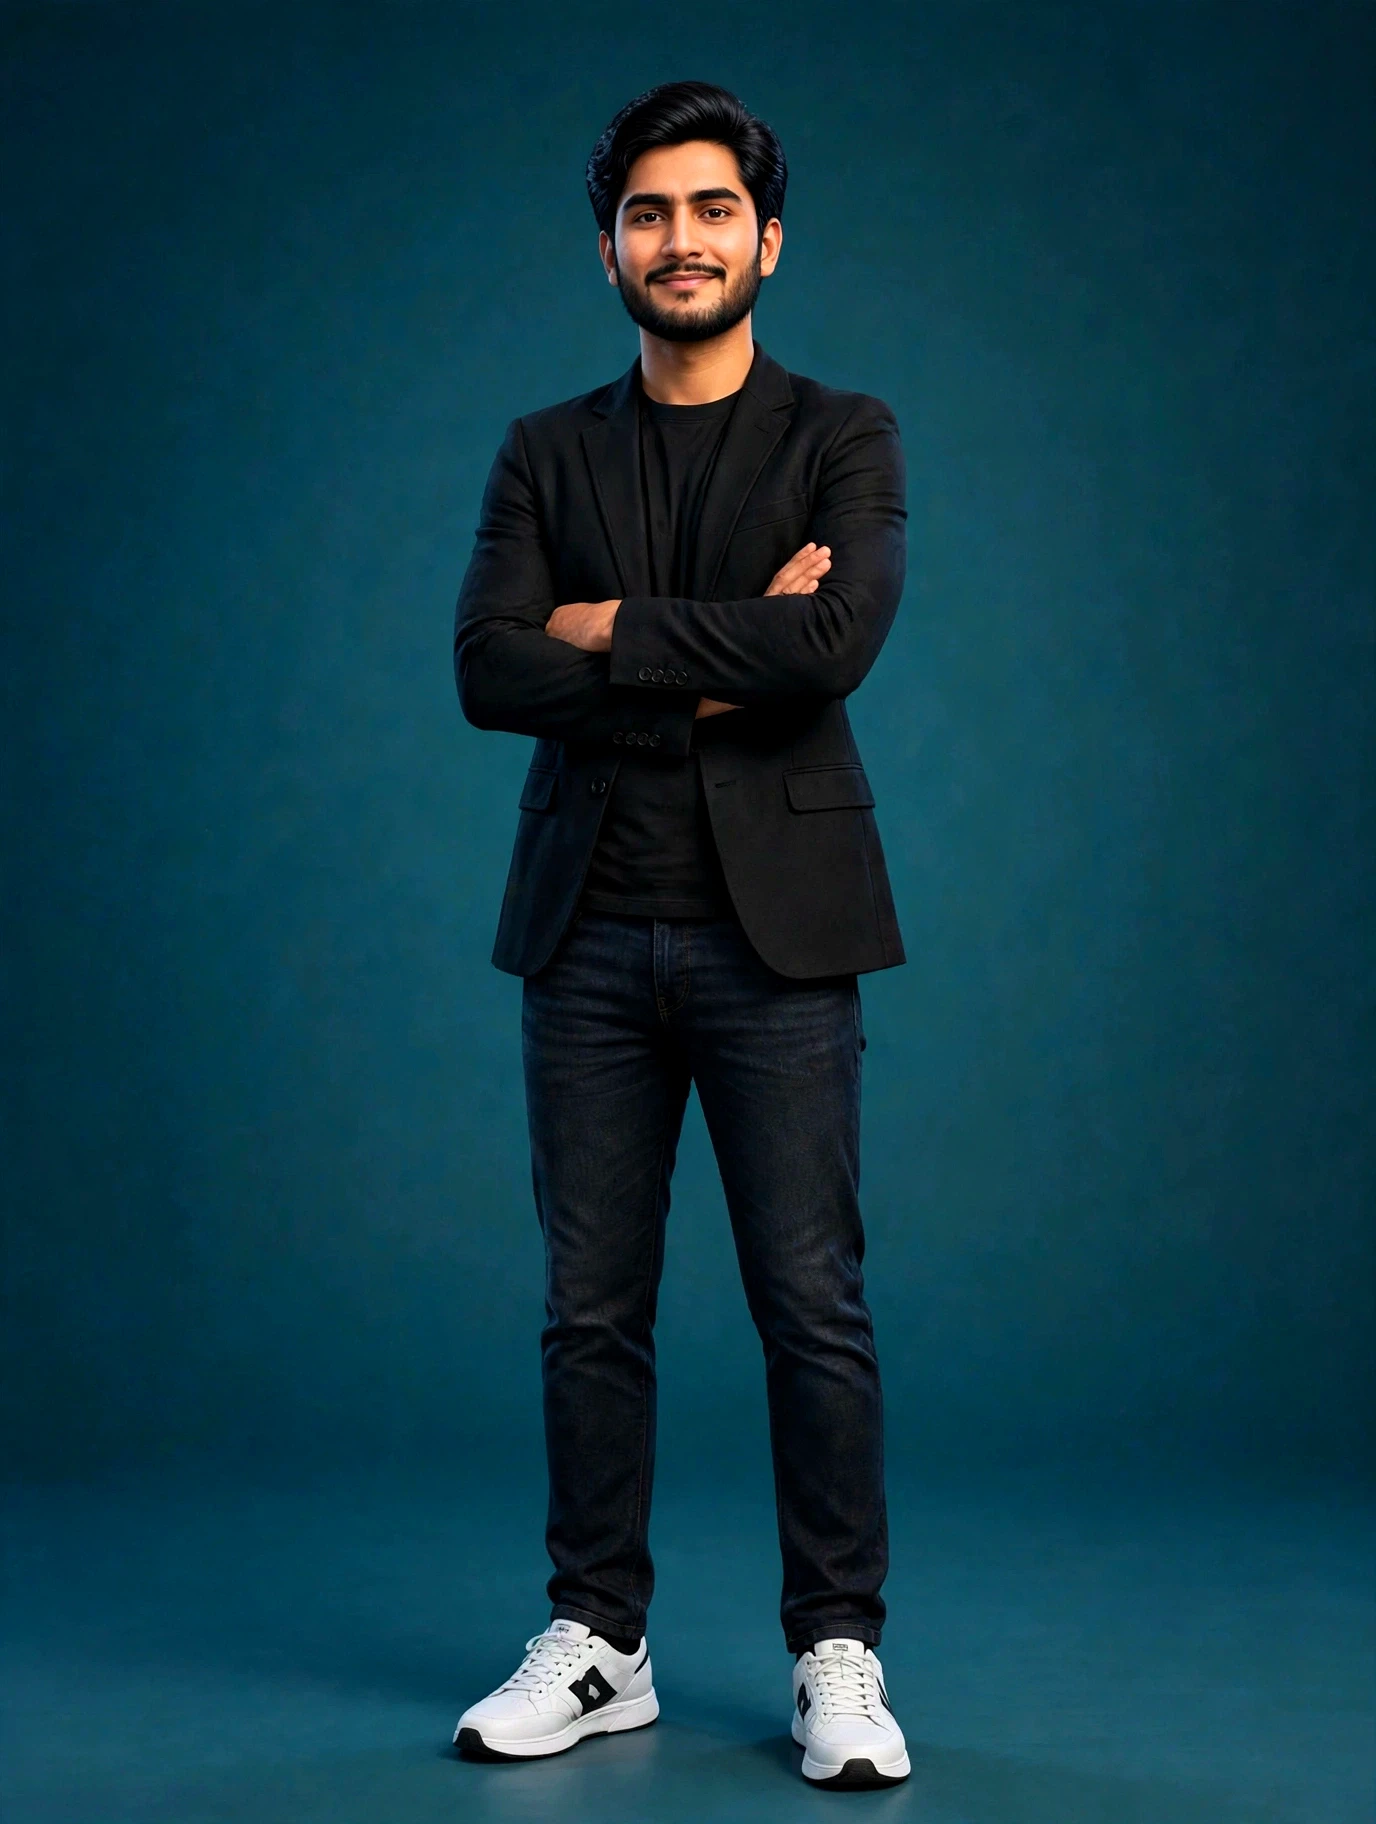
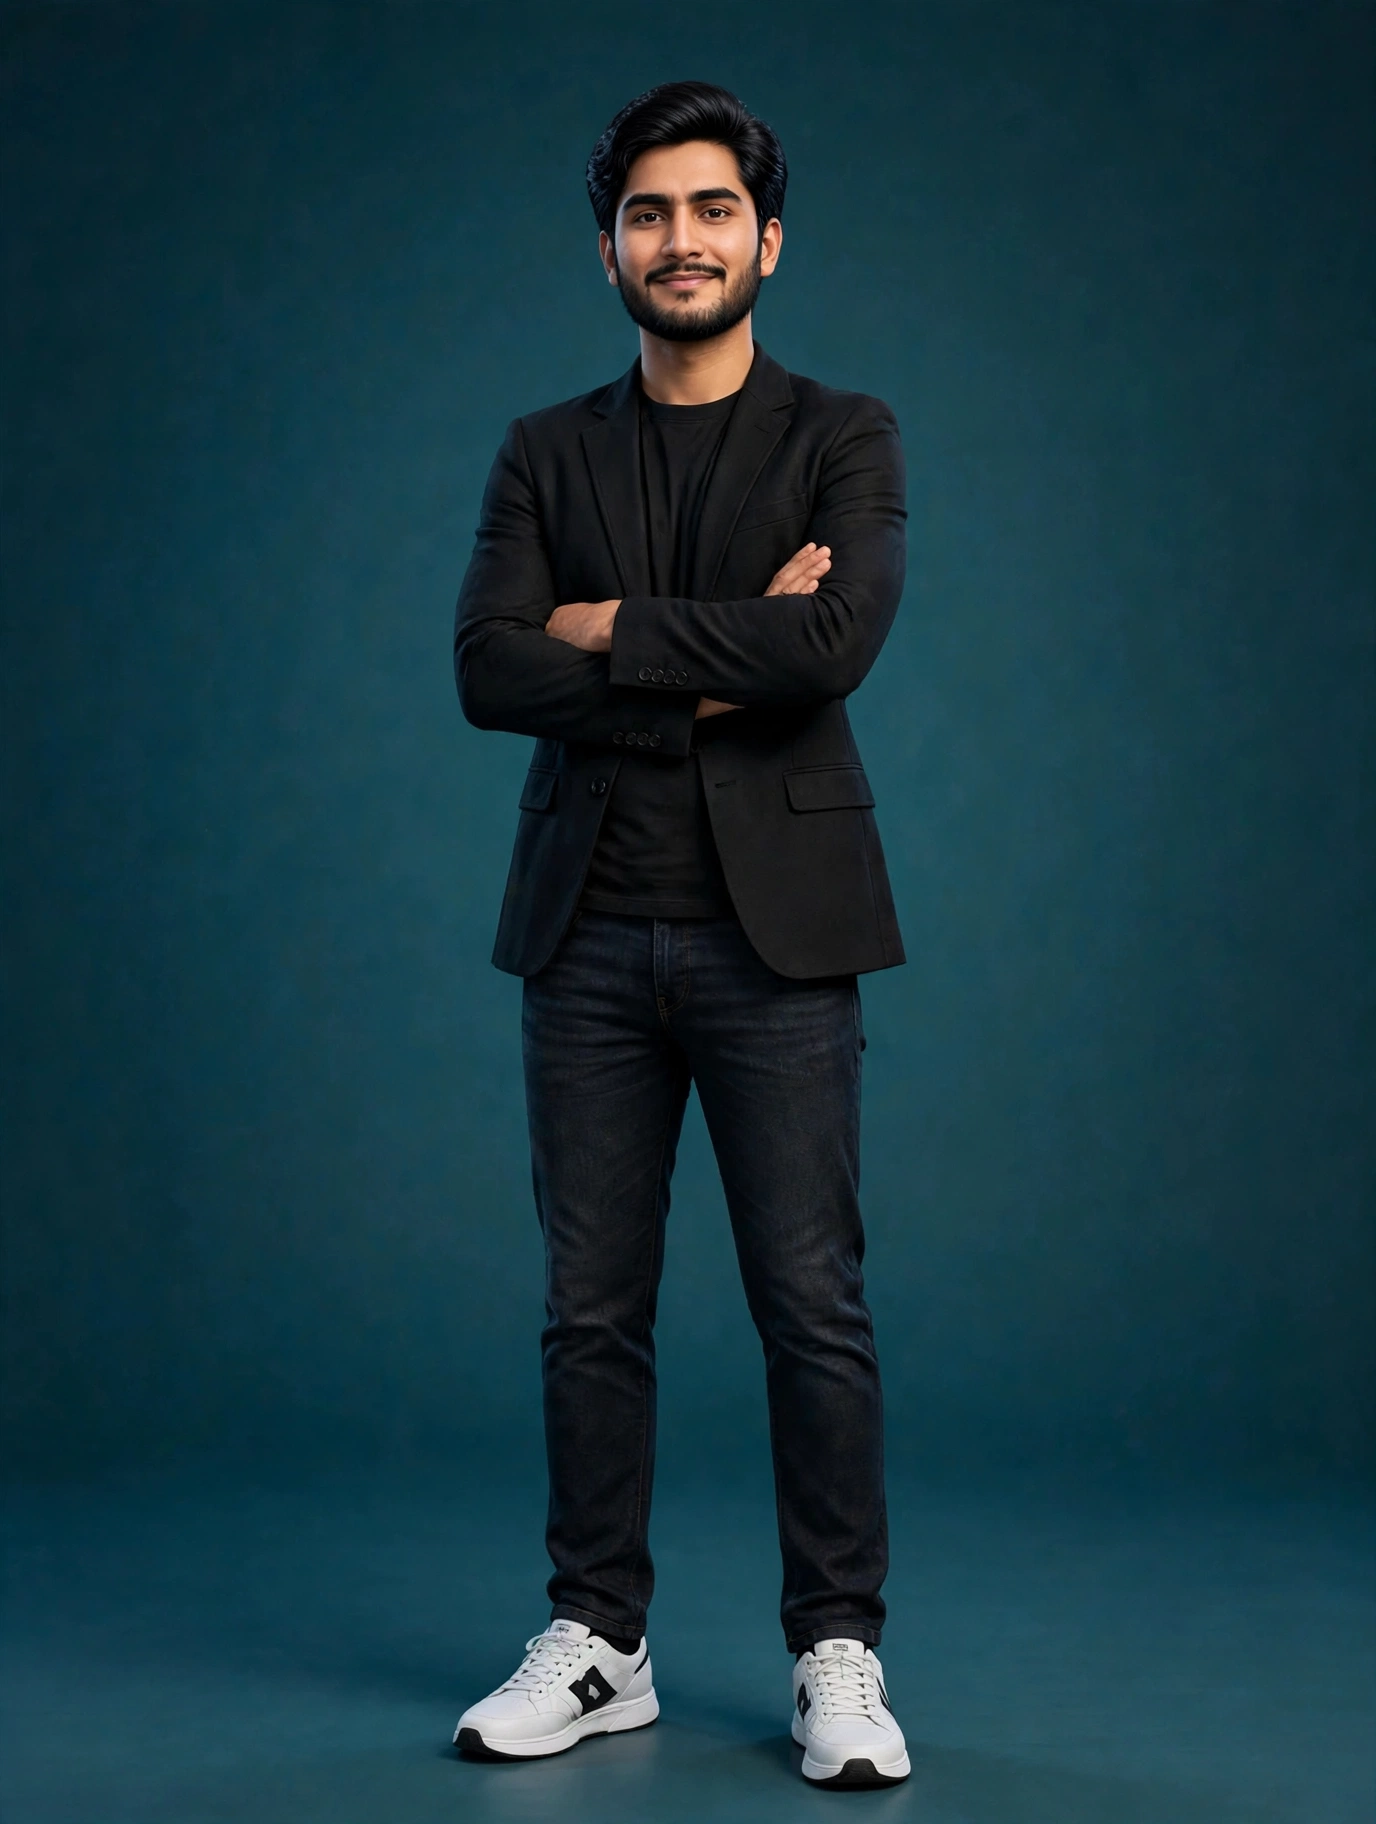
Restore original photos untouched (grading removed per Saifi); all enhancement stays on the background/stage only — lights, spotlight, rings, glows

Changed region(s): [[0.4375, 0.0625, 0.5625, 0.2188], [0.5625, 0.2812, 0.5938, 0.3438], [0.4062, 0.3125, 0.4688, 0.3438]]

diff --git a/index.html b/index.html
@@ -15,13 +15,13 @@
   body{background:radial-gradient(1200px 820px at 50% -10%, #146555 0%, var(--bg) 52%, #020f0a 100%);color:var(--ink);font-family:'Inter',sans-serif;overflow-x:hidden}
   #gl{position:fixed;inset:0;z-index:0}
   #fallback{position:fixed;inset:0;z-index:0;display:none;align-items:center;justify-content:center}
-  #fallback img{height:78vh;border-radius:18px;box-shadow:0 40px 90px rgba(0,0,0,.5);filter:saturate(1.3) contrast(1.08)}
+  #fallback img{height:78vh;border-radius:18px;box-shadow:0 40px 90px rgba(0,0,0,.5)}
   #progress{position:fixed;top:0;left:0;height:3px;width:0%;z-index:90;background:linear-gradient(90deg,var(--gold),var(--gold2))}
   /* ---------- HERO SIDE VIDEO ---------- */
   .hero-grid{display:flex;gap:28px;align-items:center}
   .hero-text{flex:1.15;min-width:0}
   .hero-vid{flex:.85;position:relative}
-  .hero-vid video{width:100%;height:min(64vh,560px);object-fit:cover;border-radius:24px;border:1px solid var(--line);box-shadow:0 30px 60px rgba(0,0,0,.45),0 0 44px rgba(201,164,92,.16);display:block;filter:saturate(1.3) contrast(1.08)}
+  .hero-vid video{width:100%;height:min(64vh,560px);object-fit:cover;border-radius:24px;border:1px solid var(--line);box-shadow:0 30px 60px rgba(0,0,0,.45),0 0 44px rgba(201,164,92,.16);display:block}
   .hv-badge{position:absolute;top:14px;left:14px;background:rgba(4,25,21,.78);color:#ffb3a0;border:1px solid rgba(255,255,255,.25);padding:.35rem .8rem;border-radius:99px;font-size:.66rem;letter-spacing:.22em;font-weight:600}
   @media(max-width:760px){ .hero-grid{flex-direction:column} .hero-vid{width:100%} .hero-vid video{height:54vh} }
   /* ---------- LAYOUT ---------- */
@@ -231,9 +231,6 @@
   var glBox = document.getElementById('gl');
   try {
     var renderer = new THREE.WebGLRenderer({ antialias: true, alpha: true });
-    renderer.outputEncoding = THREE.sRGBEncoding;
-    renderer.toneMapping = THREE.ACESFilmicToneMapping;
-    renderer.toneMappingExposure = 1.15;
     renderer.setPixelRatio(Math.min(window.devicePixelRatio, 2));
     renderer.setSize(window.innerWidth, window.innerHeight);
     glBox.appendChild(renderer.domElement);
